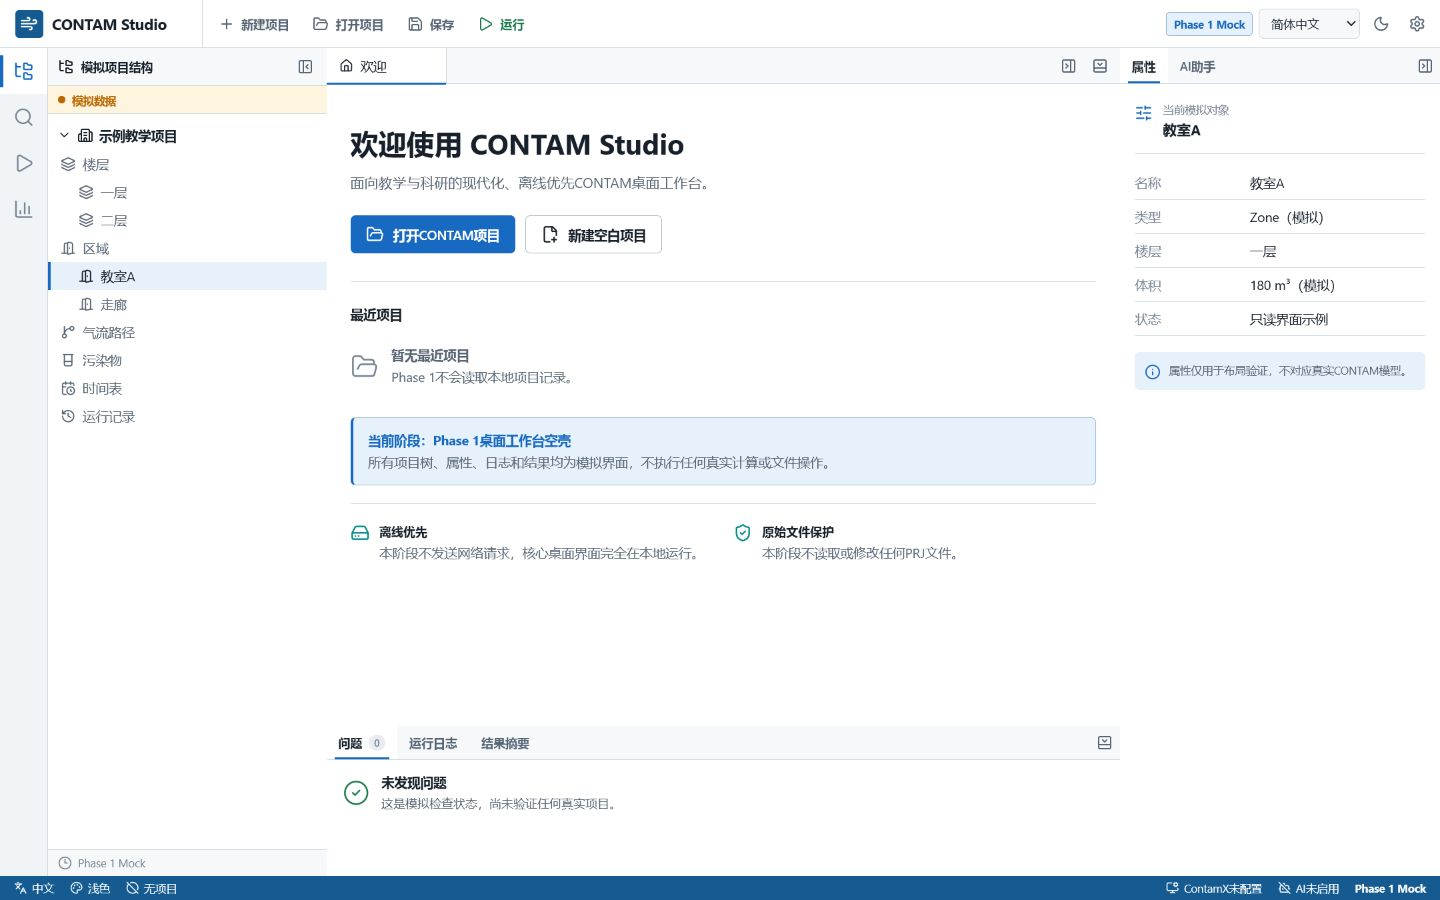
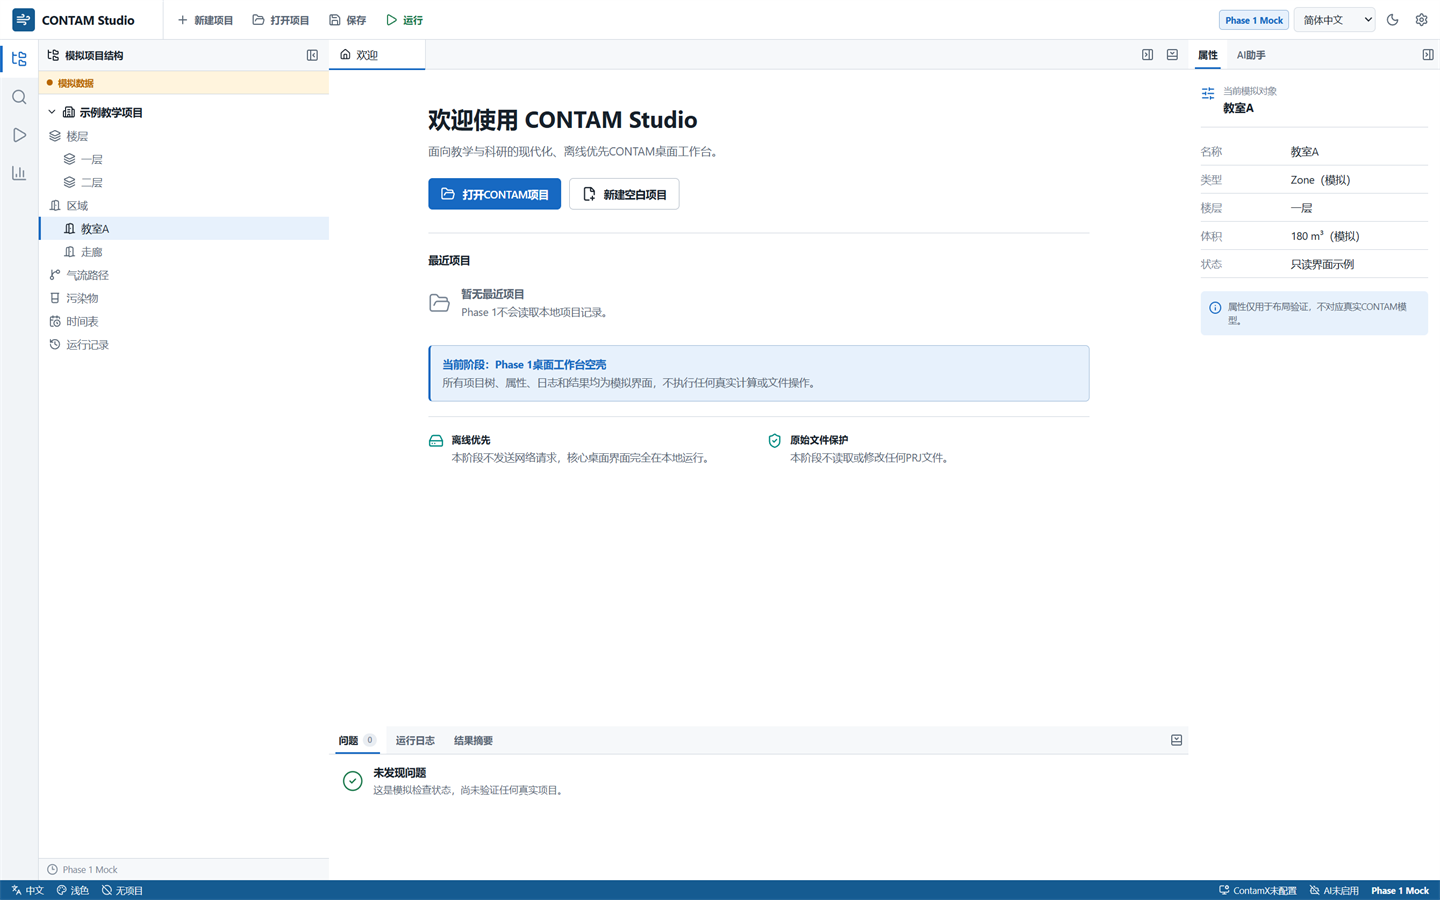
fix: refine Phase 1 state persistence and screenshot

diff --git a/src/app/App.tsx b/src/app/App.tsx
@@ -35,10 +35,17 @@ function App() {
   }, []);
 
   useEffect(() => {
-    document.documentElement.dataset.theme = workbench.theme;
     document.documentElement.lang = workbench.language;
     void i18n.changeLanguage(workbench.language);
-    saveWorkbenchState(workbench);
+  }, [workbench.language]);
+
+  useEffect(() => {
+    document.documentElement.dataset.theme = workbench.theme;
+  }, [workbench.theme]);
+
+  useEffect(() => {
+    const timer = window.setTimeout(() => saveWorkbenchState(workbench), 200);
+    return () => window.clearTimeout(timer);
   }, [workbench]);
 
   useEffect(() => {
